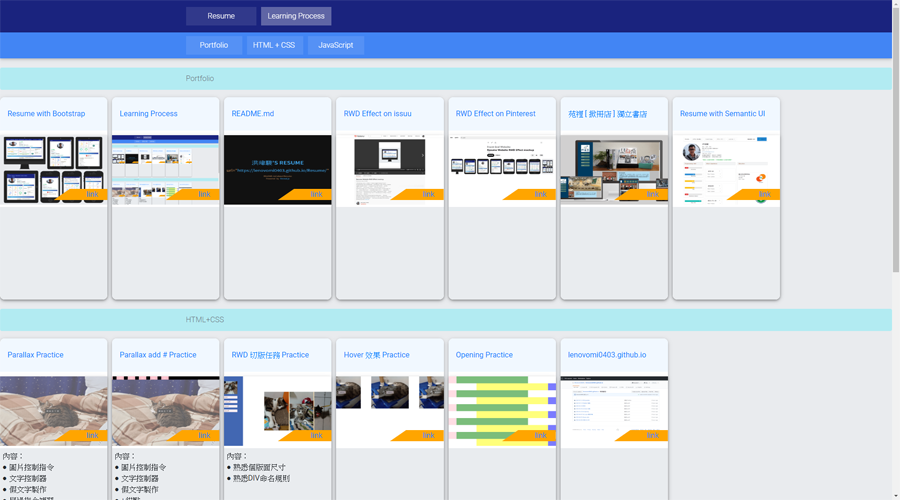
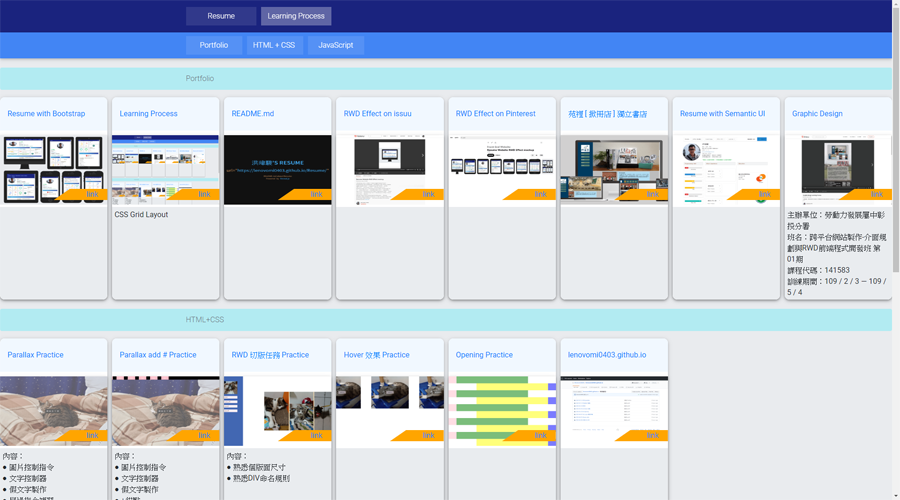
Update v3
Adjustment lenovomi0403.github.io / Resume /
Adjustment lenovomi0403.github.io / Resume / Learning Process

diff --git a/Resume/index.html b/Resume/index.html
@@ -80,12 +80,46 @@
                             </div>
                             <div class="col-lg-8 pt-3">
                                 <h1 id="profile-text-h3" class="h1 font-weight-bold" style="color: #00C851;">洪瑋駿</h1>
-                                男性&ensp;/&ensp;未婚&ensp;/&ensp;免役<br>
-                                積極求職中<br>
-                                1993&ensp;/&ensp;4&ensp;/&ensp;3<br>
-                                <a href="mailto:lenovomi0403@gmail.com">lenovomi0403@gmail.com</a><br>
-                                普通重型機車駕照&nbsp;、&nbsp;普通自排小型車駕照<br>
-                                具備普通重型機車&nbsp;、&nbsp;具備自排普通小型車<br><br>
+                                <table class="table table-sm">
+                                    <tbody>
+                                        <tr>
+                                            <th scope="row">E-mail</th>
+                                            <td><a href="mailto:lenovomi0403@gmail.com">lenovomi0403@gmail.com</a></td>
+                                        </tr>
+                                        <tr>
+                                            <th scope="row">技能</th>
+                                            <td>Word、Excel、PowerPoint、office、Google Drive、Photoshop、Illustrator、HTML/CSS、HTML5、CSS、HTML、CSS3、JavaScript、jQuery、前端</td>
+                                        </tr>
+                                        <tr>
+                                            <th scope="row">工作年資</th>
+                                            <td>2 到 4 年&nbsp;&nbsp;(小於 1 年相關工作經驗)</td>
+                                        </tr>
+                                        <tr>
+                                            <th scope="row">目前狀態</th>
+                                            <td>正在積極求職中&nbsp;&nbsp;/&nbsp;&nbsp;待業中</td>
+                                        </tr>
+                                        <tr>
+                                            <th scope="row">正在尋找</th>
+                                            <td>全職&nbsp;&nbsp;/&nbsp;&nbsp;對遠端工作有興趣&nbsp;&nbsp;/&nbsp;&nbsp;前端工程師</td>
+                                        </tr>
+                                        <tr>
+                                            <th scope="row">期望的工作地點</th>
+                                            <td>台灣台中市</td>
+                                        </tr>
+                                        <tr>
+                                            <th scope="row">語言</th>
+                                            <td>Japanese (初階)&nbsp;&nbsp;/&nbsp;&nbsp;English (初階)</td>
+                                        </tr>
+                                        <tr>
+                                            <th scope="row">證照</th>
+                                            <td>JLPT&nbsp;&nbsp;<sup>舊制</sup>&nbsp;&nbsp;4級</td>
+                                        </tr>
+                                        <tr>
+                                            <th scope="row"></th>
+                                            <td></td>
+                                        </tr>
+                                    </tbody>
+                                </table>
                                 <h1 class="h5 teal-text font-weight-bold"><i>"&nbsp;要做人在做的事情，不要做機器人在做的事情&nbsp;"</i></h1>
                             </div>
                         </div>

diff --git a/Resume/Learning Process/03-js/index.js b/Resume/Learning Process/03-js/index.js
@@ -30,7 +30,7 @@ var innerHTML_Portfolio = [
         title:'Learning Process',
         a_href_link:'https://lenovomi0403.github.io/Resume/Learning%20Process/',
         img_link:'./01-img/01_Portfolio-02_Learning Process.png',
-        span:''
+        span:' CSS Grid Layout '
     },
     {
         nav_h1_sr_only:'Portfolio / README.md',
@@ -67,6 +67,13 @@ var innerHTML_Portfolio = [
         img_link:'./01-img/01_Portfolio-07_Resume with Semantic UI.png',
         span:''
     },
+    {
+        nav_h1_sr_only:'Portfolio / Graphic Design',
+        title:'Graphic Design',
+        a_href_link:'https://issuu.com/lenovomi0403/docs/graphic_design_learning_process',
+        img_link:'./01-img/01_Portfolio-08_graphic design.png',
+        span:'主辦單位：勞動力發展屬中彰投分署<br>班名：跨平台網站製作-介面規劃與RWD前端程式開發班 第 01期<br>課程代碼：141583<br>訓練期間：109 / 2 / 3 — 109 / 5 / 4'
+    }
 ]
 
 var InnerHTML_Portfolio = document.querySelector('.innerHTML_Portfolio')

diff --git a/Resume/css/index.css b/Resume/css/index.css
@@ -90,6 +90,37 @@ body {
   margin: 0 10px 0 0;
 }
 
+table {
+  width: 90% !important;
+}
+
+@media all and (max-width: 768px) {
+  table {
+    width: 100% !important;
+  }
+}
+
+table th {
+  padding: 5px !important;
+  width: 120px !important;
+  vertical-align: middle !important;
+}
+
+@media all and (max-width: 768px) {
+  table th {
+    width: 70px !important;
+  }
+}
+
+table td {
+  padding: 5px 0 5px !important;
+  vertical-align: middle !important;
+}
+
+table td a {
+  color: #007bff !important;
+}
+
 @-webkit-keyframes donut-chart-fill {
   to {
     stroke-dasharray: 0 100;

diff --git a/Resume/css/index.scss b/Resume/css/index.scss
@@ -109,6 +109,33 @@ body{
     }
 }
 
+table{
+    width: 90% !important;
+
+    @include col(){
+        width: 100% !important;
+    }
+
+    th{
+        padding: 5px !important;
+        width: 120px !important;
+        vertical-align: middle !important;
+    
+        @include col(){
+            width: 70px !important;
+        }
+    }
+    
+    td{
+        padding: 5px 0 5px !important;
+        vertical-align: middle !important;
+
+        a {
+            color: #007bff !important;
+        }
+    }
+}
+
 // SVG Percentage doughnut
 @keyframes donut-chart-fill {
     to {
